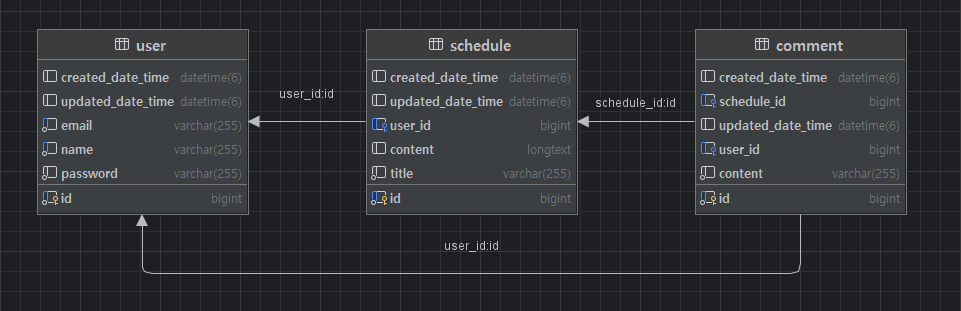
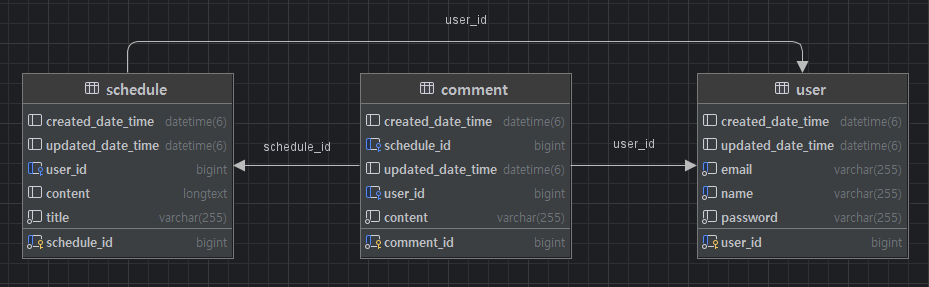
:bug: fix(entity): 의도와 다른 이름으로 DB 필드가 생성되는 문제 해결
원래 의도인 schedule.sql과 다른 이름으로 엔티티를 선언했기에 발생
- Column(name="") 객체 필드 이름과 DB 필드 이름을 다르게 설정

diff --git a/src/main/java/com/example/scheduleappdev/entity/User.java b/src/main/java/com/example/scheduleappdev/entity/User.java
@@ -10,6 +10,7 @@ public class User extends BaseTimeEntity {
 
     @Id
     @GeneratedValue(strategy = GenerationType.IDENTITY)
+    @Column(name = "user_id")
     private Long id;
 
     @Column(nullable = false, unique = true)

diff --git a/src/main/java/com/example/scheduleappdev/entity/Schedule.java b/src/main/java/com/example/scheduleappdev/entity/Schedule.java
@@ -13,6 +13,7 @@ public class Schedule extends BaseTimeEntity {
 
     @Id
     @GeneratedValue(strategy = GenerationType.IDENTITY)
+    @Column(name = "schedule_id")
     private Long id;
 
     @Column(nullable = false)

diff --git a/src/main/java/com/example/scheduleappdev/entity/Comment.java b/src/main/java/com/example/scheduleappdev/entity/Comment.java
@@ -13,6 +13,7 @@ public class Comment extends BaseTimeEntity {
 
     @Id
     @GeneratedValue(strategy = GenerationType.IDENTITY)
+    @Column(name = "comment_id")
     private Long id;
 
     @Column(nullable = false)
